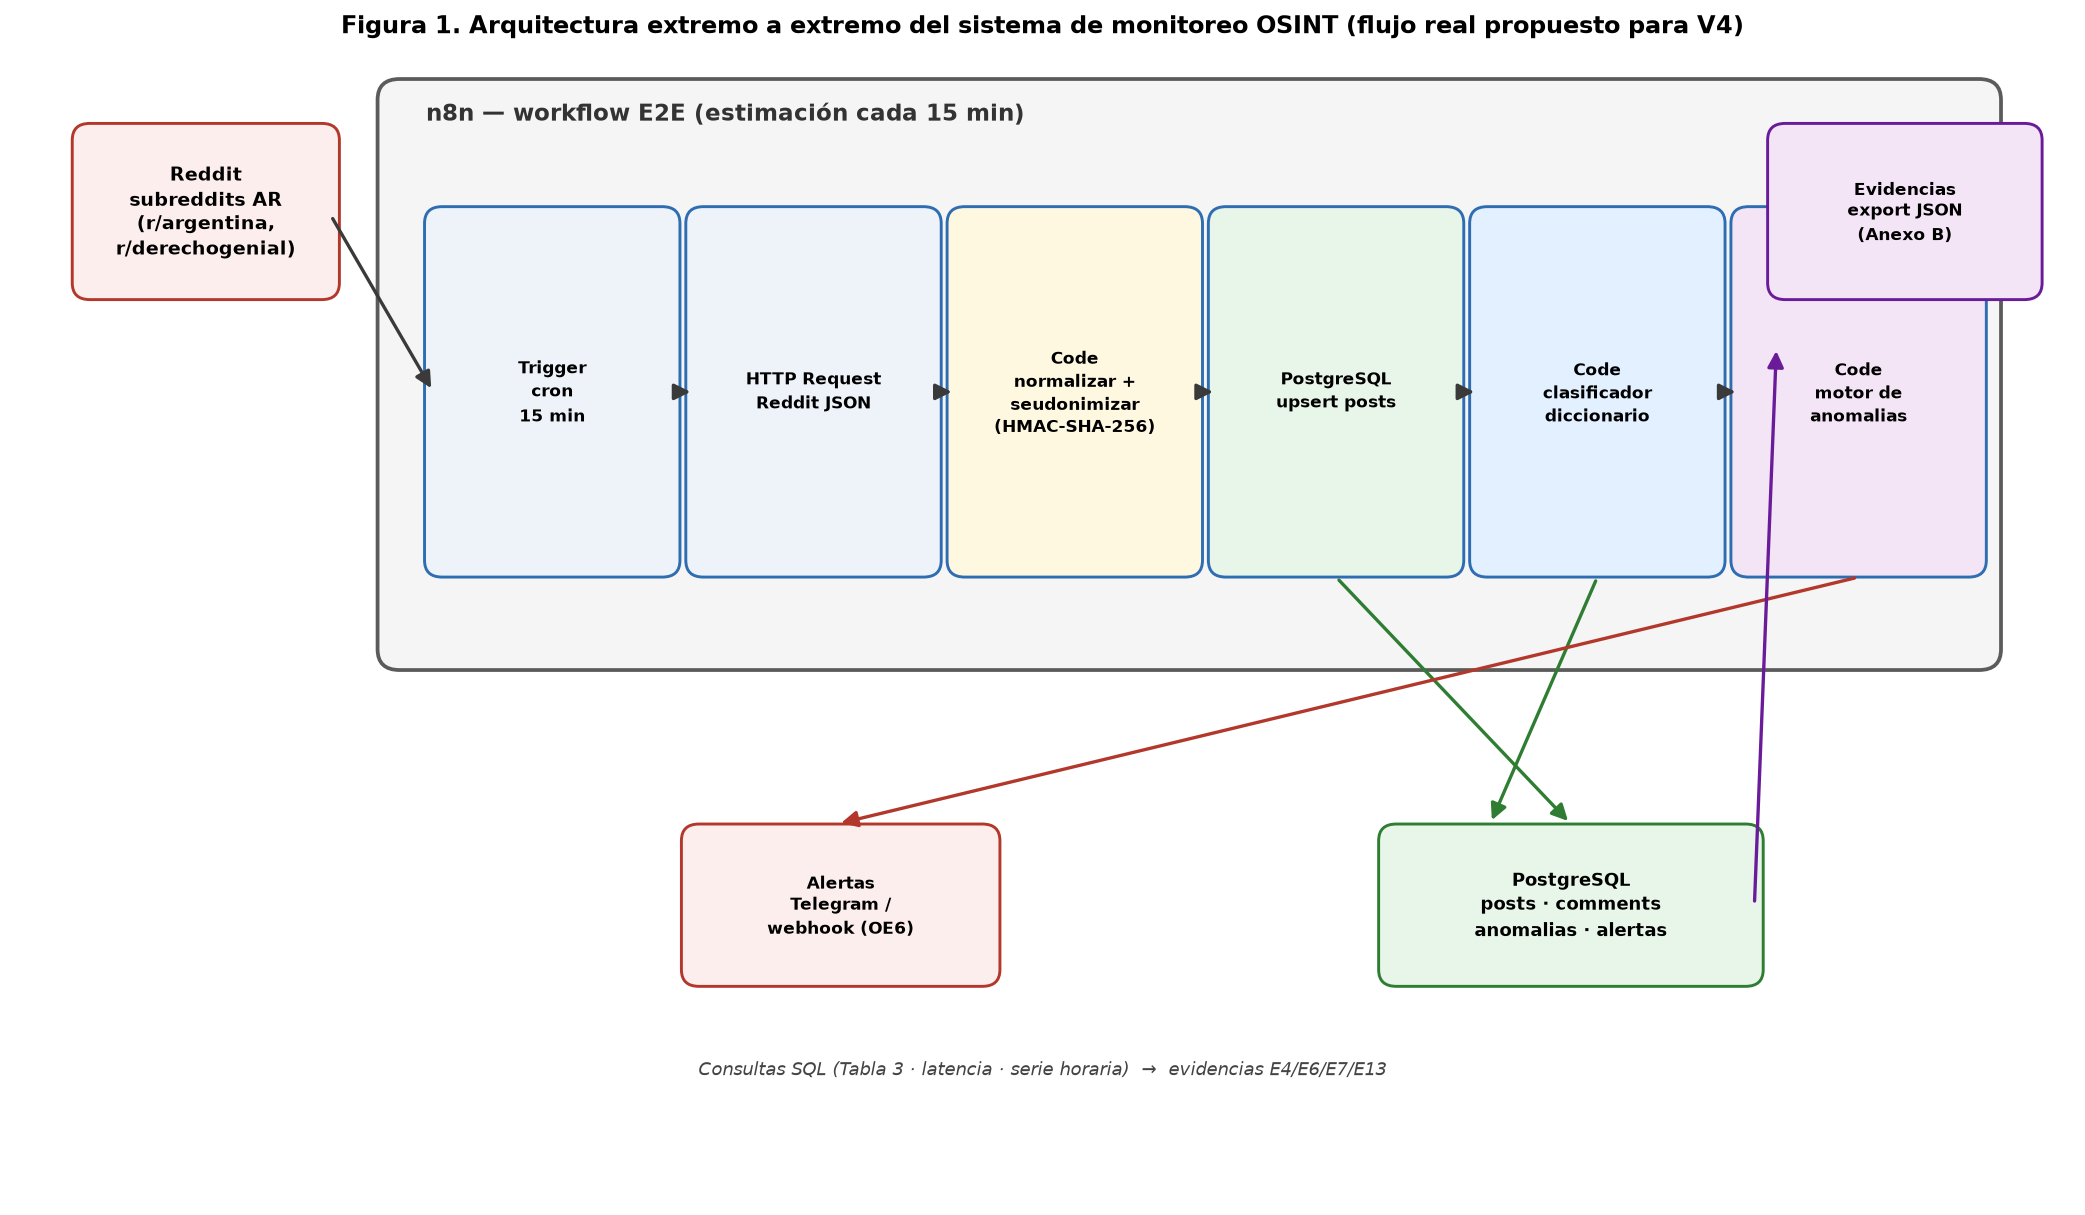
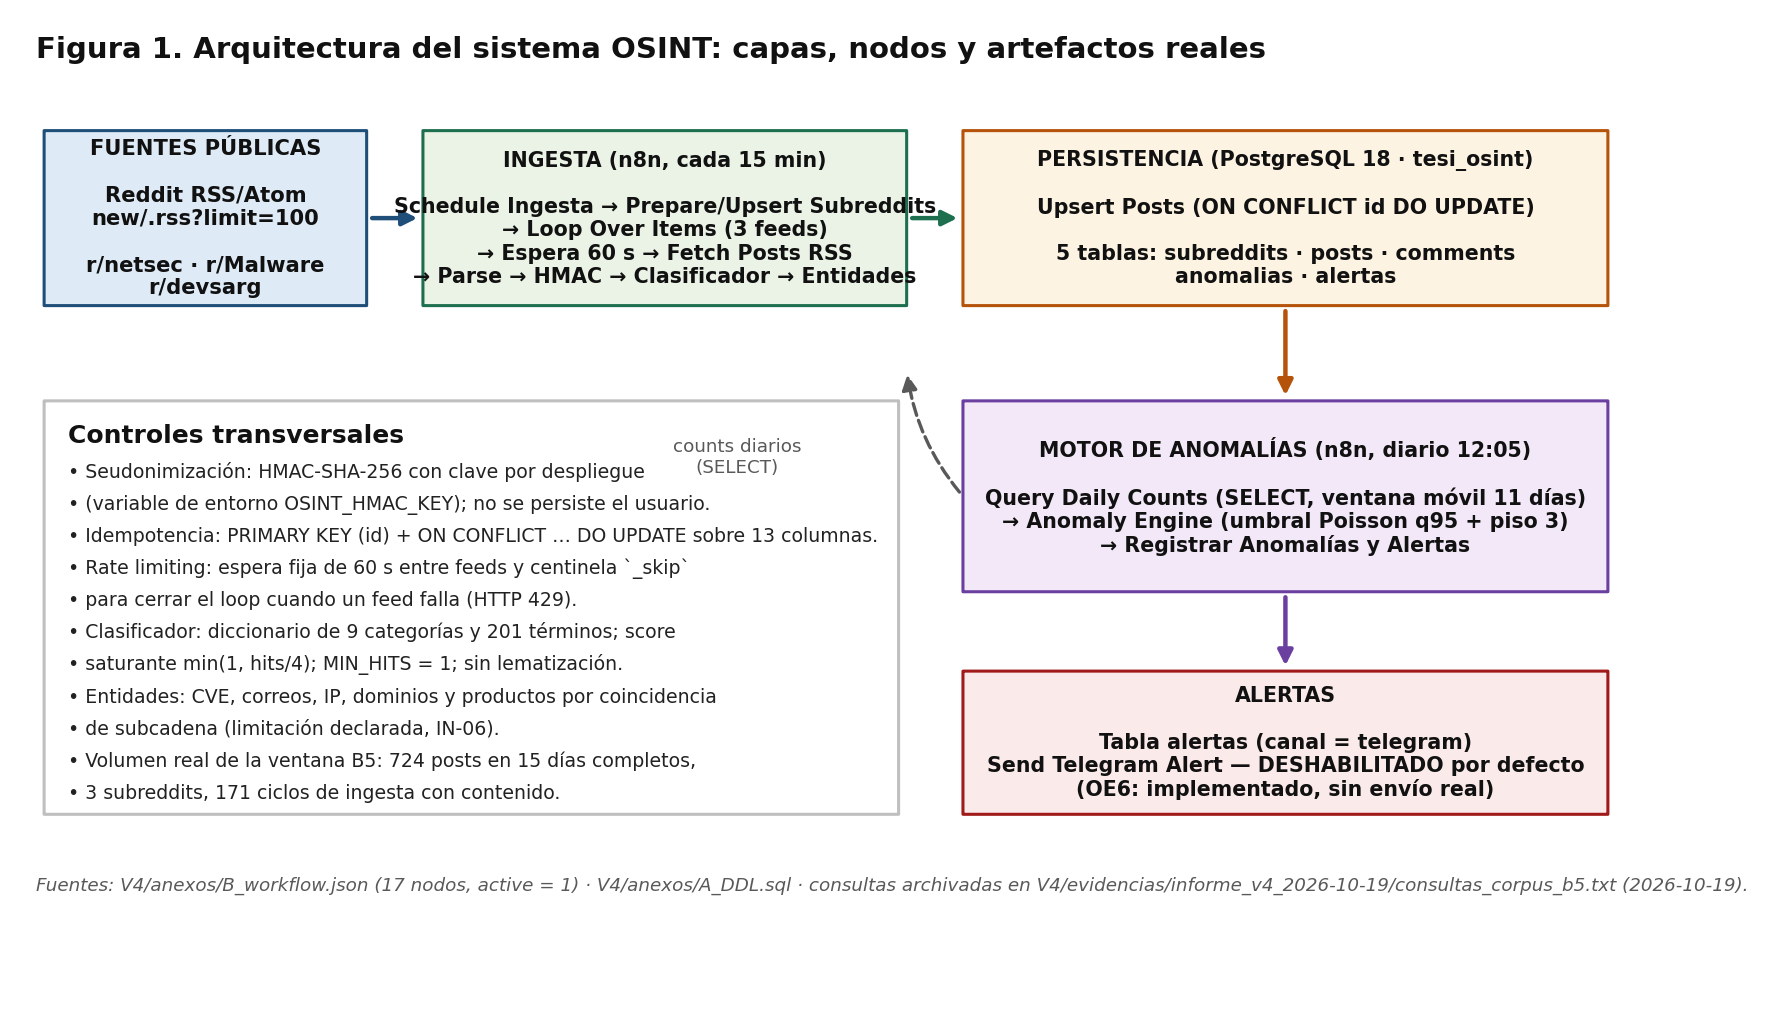
C-26: figuras 1 a 4 del informe V4 generadas desde consultas reales

diff --git a/V4/scripts/generar_figuras_v4.py b/V4/scripts/generar_figuras_v4.py
@@ -1,0 +1,307 @@
+# -*- coding: utf-8 -*-
+"""
+Genera las cuatro figuras del informe V4 (2026-10-19) a partir de datos reales.
+
+Fuentes de los datos:
+  - V4/evidencias/informe_v4_2026-10-19/consultas_corpus_b5.txt  (consultas Q1-Q15 del 2026-10-19)
+  - V4/anexos/A_DDL.sql                                          (esquema fisico, 5 tablas)
+  - V4/anexos/B_workflow.json                                    (workflow desplegado, 17 nodos, active=1)
+  - V4/evidencias/evaluacion_muestra_control_2026-09-30.md/JSON  (muestra de control n=50)
+
+Salidas (PNG, 200 dpi):
+  - V4/figuras/Figura_1_arquitectura.png
+  - V4/figuras/Figura_2_der.png
+  - V4/figuras/Figura_3_workflow.png
+  - V4/figuras/Figura_4_serie_temporal.png
+
+No modifica la base, ni el DDL, ni el workflow, ni sus evidencias.
+"""
+import json
+import os
+
+import matplotlib
+matplotlib.use("Agg")
+import matplotlib.pyplot as plt
+from matplotlib.patches import FancyArrowPatch, FancyBboxPatch, Rectangle
+
+RAIZ = r"C:\Users\sever\OneDrive\Desktop\tfi-osint-n8n"
+FIG = os.path.join(RAIZ, "V4", "figuras")
+DPI = 200
+
+AZUL = "#1f4e79"
+CELESTE = "#deebf7"
+GRIS = "#595959"
+NARANJA = "#b45309"
+VERDE = "#1e6f4f"
+ROJO = "#a11a1a"
+
+
+def caja(ax, x, y, w, h, texto, color=CELESTE, borde=AZUL, size=8, bold=False, radio=0.02):
+    ax.add_patch(FancyBboxPatch((x, y), w, h, boxstyle=f"round,pad=0.004,rounding_size={radio}",
+                                linewidth=1.1, edgecolor=borde, facecolor=color, zorder=2))
+    ax.text(x + w / 2, y + h / 2, texto, ha="center", va="center", fontsize=size,
+            color="#111111", zorder=3, fontweight="bold" if bold else "normal", wrap=True)
+
+
+def flecha(ax, p1, p2, color=GRIS, estilo="-|>", ls="-", lw=1.2, rad=0.0):
+    ax.add_patch(FancyArrowPatch(p1, p2, arrowstyle=estilo, mutation_scale=11,
+                                 linewidth=lw, color=color, linestyle=ls,
+                                 connectionstyle=f"arc3,rad={rad}", zorder=1))
+
+
+# ---------------------------------------------------------------- Figura 1
+def figura_1():
+    fig, ax = plt.subplots(figsize=(10.4, 6.4))
+    ax.set_xlim(0, 100)
+    ax.set_ylim(0, 62)
+    ax.axis("off")
+
+    ax.text(1, 59.6, "Figura 1. Arquitectura del sistema OSINT: capas, nodos y artefactos reales",
+            fontsize=10.5, fontweight="bold", color="#111111")
+
+    # Capa 1: fuentes
+    caja(ax, 1.5, 44, 20, 11, "FUENTES PÚBLICAS\n\nReddit RSS/Atom\nnew/.rss?limit=100\n\nr/netsec · r/Malware\nr/devsarg", CELESTE, AZUL, 7.6, True)
+    # Capa 2: ingesta
+    caja(ax, 25, 44, 30, 11, "INGESTA (n8n, cada 15 min)\n\nSchedule Ingesta → Prepare/Upsert Subreddits\n→ Loop Over Items (3 feeds)\n→ Espera 60 s → Fetch Posts RSS\n→ Parse → HMAC → Clasificador → Entidades", "#eaf3e6", VERDE, 7.4, True)
+    # Capa 3: persistencia
+    caja(ax, 58.5, 44, 40, 11, "PERSISTENCIA (PostgreSQL 18 · tesi_osint)\n\nUpsert Posts (ON CONFLICT id DO UPDATE)\n\n5 tablas: subreddits · posts · comments\nanomalias · alertas", "#fdf3e3", NARANJA, 7.4, True)
+    # Capa 4: motor
+    caja(ax, 58.5, 26, 40, 12, "MOTOR DE ANOMALÍAS (n8n, diario 12:05)\n\nQuery Daily Counts (SELECT, ventana móvil 11 días)\n→ Anomaly Engine (umbral Poisson q95 + piso 3)\n→ Registrar Anomalías y Alertas", "#f3e8f7", "#6b3fa0", 7.4, True)
+    # Capa 5: alertas
+    caja(ax, 58.5, 12, 40, 9, "ALERTAS\n\nTabla alertas (canal = telegram)\nSend Telegram Alert — DESHABILITADO por defecto\n(OE6: implementado, sin envío real)", "#fbeaea", ROJO, 7.4, True)
+
+    flecha(ax, (21.5, 49.5), (25, 49.5), AZUL, lw=1.6)
+    flecha(ax, (55, 49.5), (58.5, 49.5), VERDE, lw=1.6)
+    flecha(ax, (78.5, 44), (78.5, 38), NARANJA, lw=1.6)
+    flecha(ax, (78.5, 26), (78.5, 21), "#6b3fa0", lw=1.6)
+    flecha(ax, (58.5, 32), (55, 40), GRIS, ls="--", rad=-0.15)
+    ax.text(44.5, 33.5, "counts diarios\n(SELECT)", fontsize=6.6, color=GRIS, ha="center")
+
+    # bloque inferior: detalle tecnico
+    caja(ax, 1.5, 12, 53, 26, "", "#ffffff", "#bfbfbf", 7.2)
+    ax.text(3, 35.4, "Controles transversales", fontsize=9, fontweight="bold", color="#111111")
+    detalle = [
+        "Seudonimización: HMAC-SHA-256 con clave por despliegue",
+        "(variable de entorno OSINT_HMAC_KEY); no se persiste el usuario.",
+        "Idempotencia: PRIMARY KEY (id) + ON CONFLICT … DO UPDATE sobre 13 columnas.",
+        "Rate limiting: espera fija de 60 s entre feeds y centinela `_skip`",
+        "para cerrar el loop cuando un feed falla (HTTP 429).",
+        "Clasificador: diccionario de 9 categorías y 201 términos; score",
+        "saturante min(1, hits/4); MIN_HITS = 1; sin lematización.",
+        "Entidades: CVE, correos, IP, dominios y productos por coincidencia",
+        "de subcadena (limitación declarada, IN-06).",
+        "Volumen real de la ventana B5: 724 posts en 15 días completos,",
+        "3 subreddits, 171 ciclos de ingesta con contenido.",
+    ]
+    for i, linea in enumerate(detalle):
+        ax.text(3, 33.2 - i * 2.02, "• " + linea, fontsize=6.8, color="#222222")
+
+    ax.text(1, 7.2, "Fuentes: V4/anexos/B_workflow.json (17 nodos, active = 1) · V4/anexos/A_DDL.sql · "
+                   "consultas archivadas en V4/evidencias/informe_v4_2026-10-19/consultas_corpus_b5.txt (2026-10-19).",
+            fontsize=6.6, color=GRIS, style="italic")
+    fig.savefig(os.path.join(FIG, "Figura_1_arquitectura.png"), dpi=DPI, bbox_inches="tight", facecolor="white")
+    plt.close(fig)
+
+
+# ---------------------------------------------------------------- Figura 2
+def figura_2():
+    fig, ax = plt.subplots(figsize=(10.4, 6.0))
+    ax.set_xlim(0, 100)
+    ax.set_ylim(0, 62)
+    ax.axis("off")
+    ax.text(1, 59.8, "Figura 2. Modelo entidad-relación del esquema físico (V4/anexos/A_DDL.sql)",
+            fontsize=10.5, fontweight="bold")
+
+    def tabla(x, y, w, titulo, filas, borde=AZUL, alto=4.6):
+        h = 6.4 + alto * len(filas)
+        ax.add_patch(Rectangle((x, y), w, h, facecolor="white", edgecolor=borde, linewidth=1.4, zorder=2))
+        ax.add_patch(Rectangle((x, y + h - 4.6), w, 4.6, facecolor=borde, edgecolor=borde, zorder=3))
+        ax.text(x + w / 2, y + h - 2.3, titulo, color="white", fontsize=8, fontweight="bold",
+                ha="center", va="center", zorder=4)
+        for i, (f, t) in enumerate(filas):
+            yy = y + h - 4.6 - alto * (i + 1) + alto / 2
+            ax.text(x + 1.1, yy, f, fontsize=6.6, va="center", zorder=4)
+            ax.text(x + w - 1.1, yy, t, fontsize=6.2, va="center", ha="right", color="#444444", zorder=4)
+        return (x, y, w, h)
+
+    sub = tabla(2, 40, 30, "subreddits", [
+        ("id  VARCHAR(50)  PK", ""),
+        ("display_name  VARCHAR(100)", "UNIQUE, NOT NULL"),
+        ("subscribers  INTEGER", "DEFAULT 0"),
+        ("active_monitoring  BOOLEAN", "DEFAULT TRUE"),
+        ("created_at  TIMESTAMPTZ", "DEFAULT now()"),
+    ])
+    pos = tabla(38, 30, 38, "posts", [
+        ("id  VARCHAR(50)  PK", ""),
+        ("subreddit_id  VARCHAR(50)  FK → subreddits", "RESTRICT"),
+        ("title / selftext / url", "NOT NULL / — / —"),
+        ("author_hash  CHAR(64)", "NOT NULL (HMAC)"),
+        ("score / num_comments  INTEGER", "DEFAULT 0"),
+        ("created_utc  TIMESTAMPTZ", "NOT NULL"),
+        ("nlp_category  VARCHAR(100)", "—"),
+        ("nlp_score  REAL", "CHECK 0–1"),
+        ("entities  JSONB", "—"),
+        ("nlp_processed  BOOLEAN", "DEFAULT false"),
+        ("ingested_at  TIMESTAMPTZ", "DEFAULT now()"),
+    ])
+    com = tabla(2, 12, 30, "comments", [
+        ("id  VARCHAR(50)  PK", ""),
+        ("post_id  VARCHAR(50)  FK → posts", "CASCADE"),
+        ("body  TEXT", "NOT NULL"),
+        ("author_hash  CHAR(64)", "NOT NULL"),
+        ("score / created_utc", "—"),
+        ("nlp_category / nlp_score", "—"),
+        ("nlp_processed / ingested_at", "—"),
+    ])
+    ano = tabla(38, 12, 38, "anomalias", [
+        ("id  BIGSERIAL  PK", ""),
+        ("ventana_inicio / ventana_fin", "TIMESTAMPTZ, NOT NULL"),
+        ("categoria  VARCHAR(100)", "NOT NULL"),
+        ("n_observado / base_media / umbral", "INT / REAL / REAL"),
+        ("disparo  BOOLEAN", "DEFAULT false"),
+        ("created_at  TIMESTAMPTZ", "DEFAULT now()"),
+    ])
+    ale = tabla(80, 30, 18, "alertas", [
+        ("id  BIGSERIAL  PK", ""),
+        ("anomalia_id  FK → anomalias", "CASCADE"),
+        ("canal  VARCHAR(50)", "NOT NULL"),
+        ("destinatario / payload", "— / JSONB"),
+        ("estado  VARCHAR(20)", "DEFAULT ENVIADA"),
+        ("created_at", "DEFAULT now()"),
+    ])
+
+    flecha(ax, (32, 52), (38, 52), AZUL, lw=1.3)
+    ax.text(35, 53.2, "1:N", fontsize=6.4, color=AZUL, ha="center")
+    flecha(ax, (17, 40), (17, 30), AZUL, lw=1.3)
+    ax.text(18, 35, "1:N", fontsize=6.4, color=AZUL)
+    flecha(ax, (57, 12), (57, 8.4), "#6b3fa0", lw=1.3)
+    flecha(ax, (76, 30), (89, 30), ROJO, lw=1.3)
+    ax.text(82.5, 31.2, "1:N", fontsize=6.4, color=ROJO, ha="center")
+    ax.text(50, 7.2, "ON DELETE RESTRICT en posts.subreddit_id · ON DELETE CASCADE en comments.post_id, "
+                     "alertas.anomalia_id (y en anomalias no hay FK saliente).",
+            fontsize=6.8, color=GRIS, ha="center")
+    ax.text(1, 3.6, "Índices: idx_posts_created_utc (btree desc) · idx_posts_nlp_category · idx_posts_ingested_at · "
+                    "idx_comments_post_id · idx_anomalias_created_at. La tabla comments existe pero no se pobló en la ventana B5 (0 filas).",
+            fontsize=6.6, color=GRIS)
+    fig.savefig(os.path.join(FIG, "Figura_2_der.png"), dpi=DPI, bbox_inches="tight", facecolor="white")
+    plt.close(fig)
+
+
+# ---------------------------------------------------------------- Figura 3
+def figura_3():
+    ruta = os.path.join(RAIZ, "V4", "anexos", "B_workflow.json")
+    with open(ruta, encoding="utf-8") as fh:
+        wf = json.load(fh)
+    nodos = {n["name"]: n for n in wf["nodes"]}
+    conex = {}
+    for origen, ramas in wf.get("connections", {}).items():
+        destinos = []
+        for rama in ramas.get("main", []):
+            for d in rama:
+                destinos.append((d["node"], d.get("index", 0)))
+        conex[origen] = destinos
+
+    pos = {
+        "Schedule Ingesta": (2, 46), "Prepare Subreddits": (20, 46), "Upsert Subreddits": (20, 36),
+        "Loop Over Items": (38, 46), "Espera Rate Limit": (38, 36), "Fetch Posts RSS": (38, 26),
+        "Parse Reddit Posts": (56, 26), "HMAC Anonymize": (74, 26), "Classify Dictionary": (74, 15),
+        "Extract Entities": (74, 4), "Prepare Upsert": (56, 4), "Upsert Posts": (36, 4),
+        "Schedule Anomalias": (2, 36), "Query Daily Counts": (2, 26), "Anomaly Engine": (2, 15),
+        "Registrar Anomalias y Alertas": (2, 4), "Send Telegram Alert": (20, 4),
+    }
+    ancho, alto = 16, 7
+    fig, ax = plt.subplots(figsize=(11.0, 6.6))
+    ax.set_xlim(0, 94)
+    ax.set_ylim(0, 58)
+    ax.axis("off")
+    ax.text(0.5, 56.2, f"Figura 3. Grafo de nodos y conexiones del workflow desplegado ({wf['name']})",
+            fontsize=10.5, fontweight="bold")
+    ax.text(0.5, 52.6, f"{len(wf['nodes'])} nodos · active = {str(wf.get('active')).lower()} · "
+                       "generado desde el propio export JSON (las conexiones se leen del archivo).",
+            fontsize=7.4, color=GRIS)
+    for nombre, (x, y) in pos.items():
+        tipo = nodos[nombre]["type"].split(".")[-1]
+        color = CELESTE
+        borde = AZUL
+        if tipo == "scheduleTrigger":
+            color, borde = "#fdf3e3", NARANJA
+        elif tipo == "postgres":
+            color, borde = "#eaf3e6", VERDE
+        elif tipo == "code":
+            color, borde = "#f3e8f7", "#6b3fa0"
+        elif tipo == "httpRequest":
+            color, borde = "#fbeaea", ROJO
+        elif tipo in ("wait", "splitInBatches"):
+            color, borde = "#f2f2f2", GRIS
+        caja(ax, x, y, ancho, alto, nombre + "\n" + tipo, color, borde, 6.0, True)
+    for origen, destinos in conex.items():
+        if origen not in pos:
+            continue
+        x1, y1 = pos[origen]
+        for destino, idx in destinos:
+            if destino not in pos:
+                continue
+            x2, y2 = pos[destino]
+            p1 = (x1 + ancho / 2, y1 + (alto if y2 > y1 else 0))
+            p2 = (x2 + ancho / 2, y2 + (0 if y2 > y1 else alto))
+            estilo = "-|>" if idx == 0 else "-|>"
+            flecha(ax, p1, p2, "#666666", estilo, lw=1.0, rad=0.12)
+    ax.text(56, 0.4, "Rama principal (índice 0) en trazo continuo. El loop se cierra desde Extract Entities hacia Loop Over Items "
+                     "con el centinela `_skip`.", fontsize=6.6, color=GRIS)
+    fig.savefig(os.path.join(FIG, "Figura_3_workflow.png"), dpi=DPI, bbox_inches="tight", facecolor="white")
+    plt.close(fig)
+
+
+# ---------------------------------------------------------------- Figura 4
+def figura_4():
+    # Serie de ingesta (consultas Q4 y Q3 archivadas el 2026-10-19)
+    dias = ["10-01", "10-02", "10-04", "10-05", "10-06", "10-07", "10-08", "10-09", "10-10",
+            "10-11", "10-12", "10-13", "10-14", "10-15", "10-16", "10-17"]
+    posts = [307, 32, 37, 25, 39, 16, 35, 31, 26, 17, 31, 28, 28, 31, 33, 8]
+    eventos = [8, 10, 7, 9, 17, 10, 15, 13, 7, 9, 12, 14, 11, 11, 16, 3]
+    cats = ["Malware", "Vulnerabilidades", "Phishing", "Robo de Credenciales", "Filtración de Datos",
+            "Ransomware", "Infraestructura y Ataques", "Hacktivismo"]
+    n_cat = [79, 61, 12, 5, 4, 4, 3, 2]
+
+    fig, (ax1, ax2) = plt.subplots(1, 2, figsize=(11.4, 4.3), gridspec_kw={"width_ratios": [1.55, 1]})
+    x = range(len(dias))
+    ax1.bar(x, posts, color=AZUL, width=0.62, label="Posts ingresados")
+    ax1.plot(x, eventos, color=NARANJA, marker="o", markersize=3.4, linewidth=1.3,
+             label="Ciclos de ingesta con contenido")
+    ax1.set_xticks(list(x))
+    ax1.set_xticklabels(dias, rotation=60, fontsize=7)
+    ax1.set_ylabel("Publicaciones", fontsize=8)
+    ax1.tick_params(axis="y", labelsize=7)
+    ax1.set_title("(a) Ingesta diaria — ventana B5 (2026-10-01 a 2026-10-17)", fontsize=8.6)
+    ax1.legend(fontsize=7, frameon=False)
+    ax1.grid(axis="y", alpha=0.25)
+    ax1.annotate("primer ciclo:\nbackfill del feed\n(287 posts previos)", xy=(0, 307), xytext=(1.1, 250),
+                 fontsize=6.6, color=GRIS, arrowprops=dict(arrowstyle="->", color=GRIS, lw=0.8))
+    ax1.annotate("sin recolección\nel 10-03", xy=(2, 37), xytext=(2.4, 120), fontsize=6.6, color=ROJO,
+                 arrowprops=dict(arrowstyle="->", color=ROJO, lw=0.8))
+
+    ypos = range(len(cats))[::-1]
+    ax2.barh(list(ypos), n_cat, color=VERDE, height=0.62)
+    ax2.set_yticks(list(ypos))
+    ax2.set_yticklabels(cats, fontsize=7)
+    ax2.set_xlabel("Publicaciones clasificadas", fontsize=8)
+    ax2.tick_params(axis="x", labelsize=7)
+    ax2.set_title("(b) Categorías detectadas (n = 170)", fontsize=8.6)
+    ax2.grid(axis="x", alpha=0.25)
+    for y, v in zip(ypos, n_cat):
+        ax2.text(v + 1.4, y, str(v), fontsize=7, va="center", color="#222222")
+    ax2.text(0, -1.55, "La categoría «Ingeniería Social» (20 términos) no registró coincidencias.\n"
+                       "El residual «No relevante» (554) no se grafica.", fontsize=6.4, color=GRIS)
+    fig.tight_layout()
+    fig.savefig(os.path.join(FIG, "Figura_4_serie_temporal.png"), dpi=DPI, bbox_inches="tight", facecolor="white")
+    plt.close(fig)
+
+
+if __name__ == "__main__":
+    figura_1()
+    figura_2()
+    figura_3()
+    figura_4()
+    for nombre in ("Figura_1_arquitectura.png", "Figura_2_der.png", "Figura_3_workflow.png", "Figura_4_serie_temporal.png"):
+        ruta = os.path.join(FIG, nombre)
+        print(nombre, os.path.getsize(ruta), "bytes")
